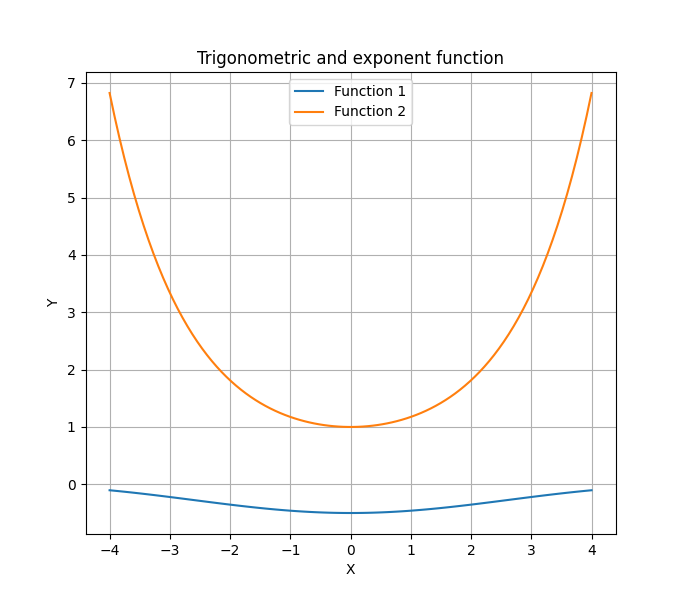
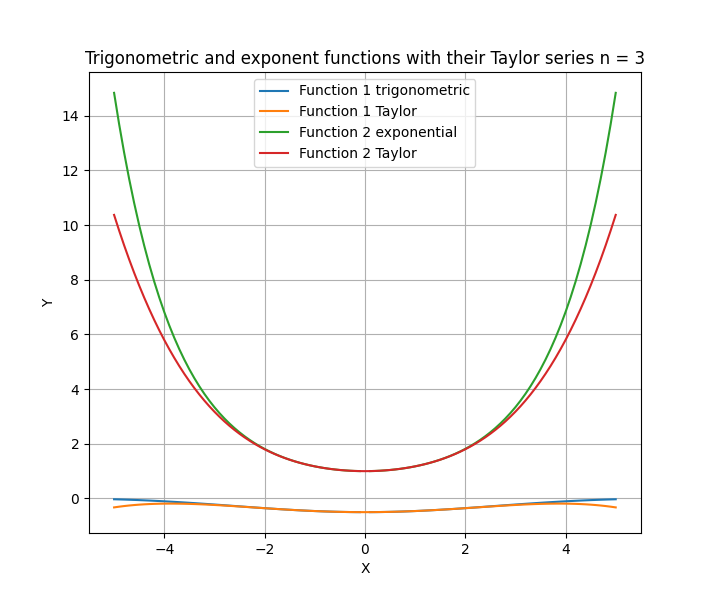
Numerical tests 1_4

diff --git a/README.md b/README.md
@@ -35,7 +35,8 @@ Required dependencies and installation instructions are given below. The code ha
   - [Problem 4 code](exercise01/funks.cpp)
   - [Problem 4 pen & paper](exercise01/exercise1_4.pdf)
   - [Problem 4 test funks](exercise01/exercise1_4.png)
-  - [Problem 4 test funks_Taylor](exercise01/exercise1_4_Taylor.png)
+  - [Problem 4 test funks_Taylor plot](exercise01/exercise1_4_Taylor.png)
+  - [Problem 4 test funks_Taylor near zero](exercise01/exercise1_4_Taylor.txt)
 
 
 ## Running the algorithms
